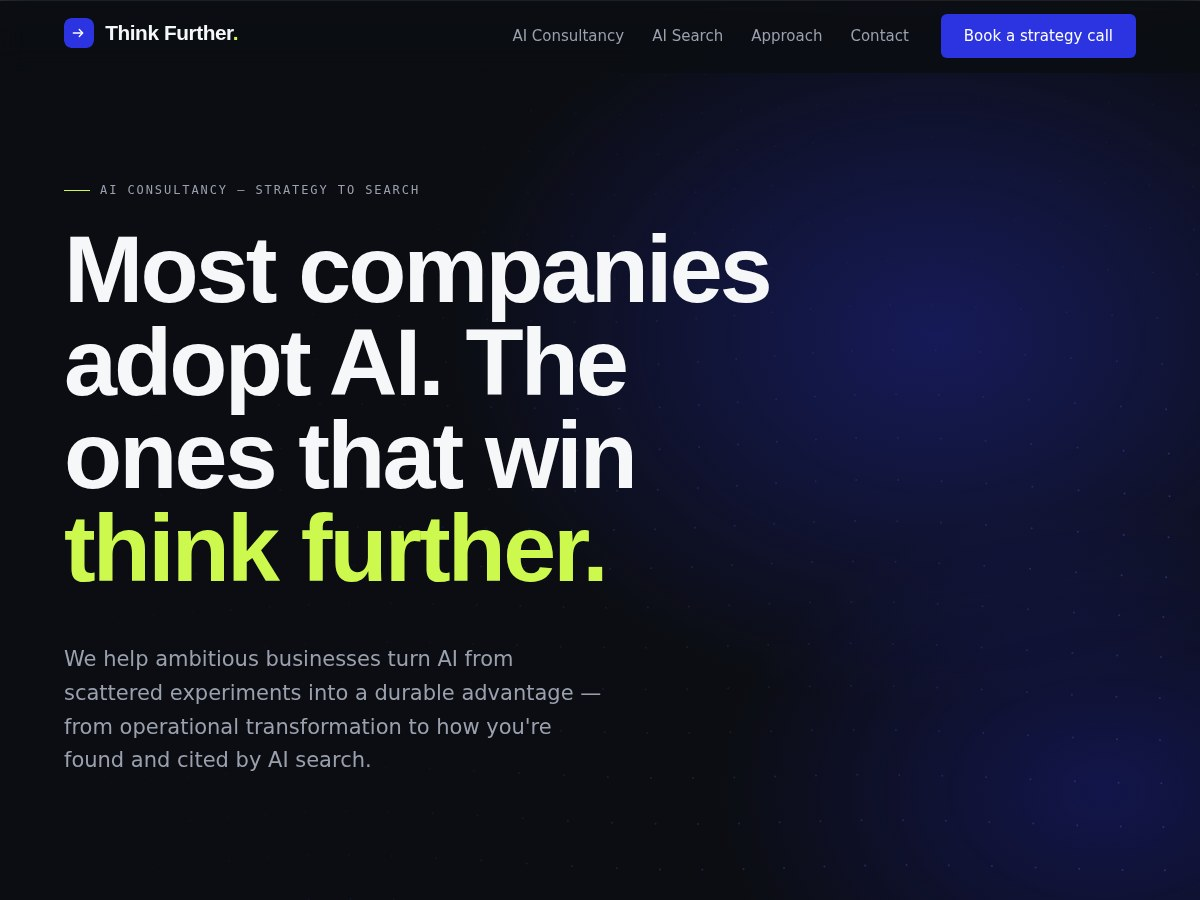
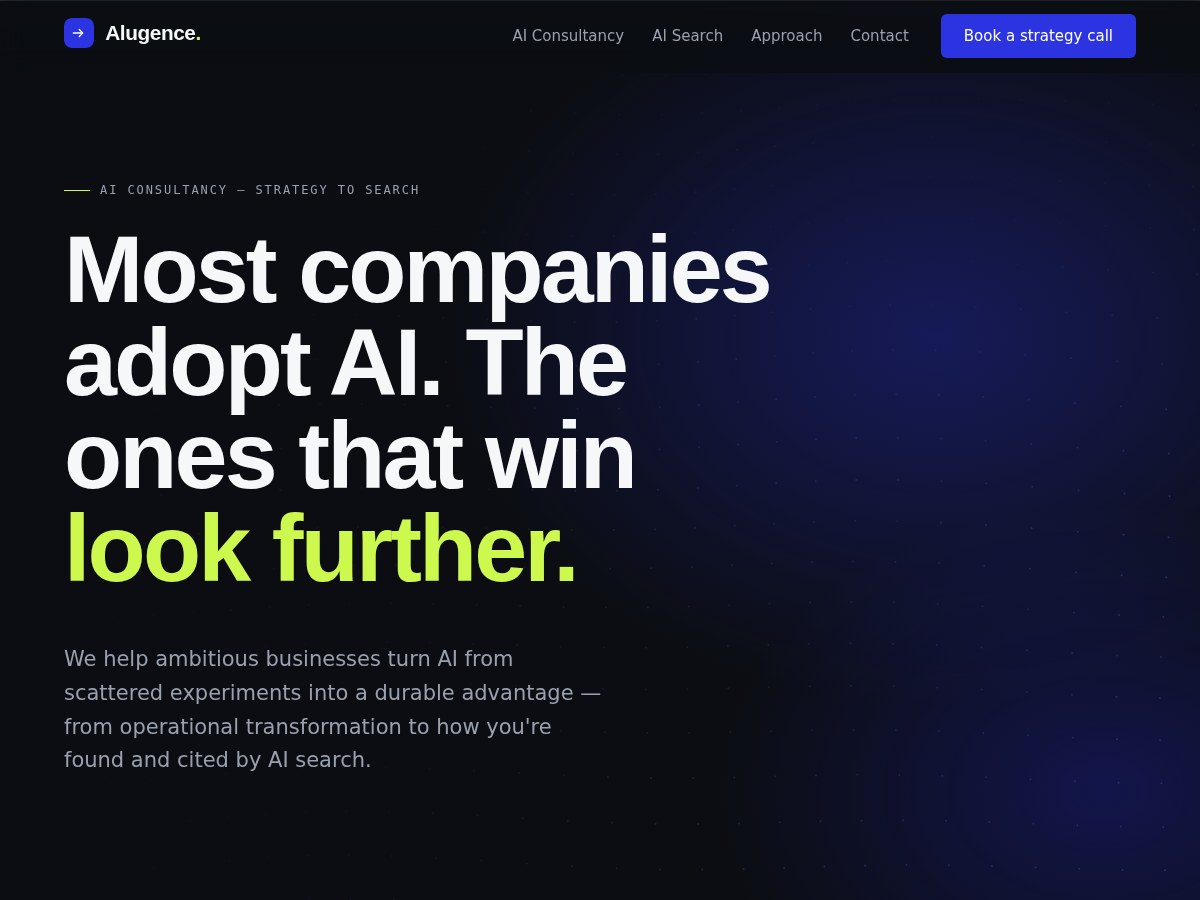
Rebrand: Think Further becomes Alugence
The Alugence brand pack keeps the v1.0 visual system unchanged (same
palette, typography, mark, motifs); this updates naming and voice:
- Wordmark and lockup now read Alugence.; official SVGs replaced in
  assets/img; theme header, Customizer panel, admin setup screen and
  all user-facing strings renamed
- Promise language updated per the new guide: 'think further' becomes
  'look further' in hero default, CTA band, footer and insights heading
- Domain references now alugence.ai (footer, defaults, contact email);
  contact-form subject line derives from the site host dynamically
- Internal identifiers (tf_ prefixes, text domain, repo name) kept
  stable so existing installs and WP Pusher config are unaffected

Claude-Session: https://claude.ai/code/session_01AxsKRJJyELHxB6M9gPaBGd

Changed region(s): [[0.0617, 0.56, 0.5242, 0.6533], [0.0925, 0.0311, 0.185, 0.0622]]

diff --git a/style.css b/style.css
@@ -1,10 +1,10 @@
 /*
-Theme Name:  Think Further
-Theme URI:   https://thinkfurther.ai
-Author:      Think Further
-Author URI:  https://thinkfurther.ai
-Description: Custom marketing theme for Think Further — an AI consultancy spanning business AI transformation and AI search visibility. Hand-built design system, no page-builder dependency.
-Version:     2.0.0
+Theme Name:  Alugence
+Theme URI:   https://alugence.ai
+Author:      Alugence
+Author URI:  https://alugence.ai
+Description: Custom marketing theme for Alugence — an AI consultancy spanning business AI transformation and AI search visibility. Hand-built design system, no page-builder dependency.
+Version:     2.1.0
 Requires at least: 6.0
 Tested up to: 6.7
 Requires PHP: 7.4

diff --git a/assets/css/main.css b/assets/css/main.css
@@ -1,5 +1,5 @@
 /* =============================================================
-   THINK FURTHER — design system
+   ALUGENCE — design system
    Brand v1.0: ink & paper neutrals, Signal Indigo, Volt accent,
    Beam for the AI-search arm.
    Space Grotesk × IBM Plex Sans × IBM Plex Mono.

diff --git a/assets/js/main.js b/assets/js/main.js
@@ -1,5 +1,5 @@
 /**
- * Think Further — interactions.
+ * Alugence — interactions.
  * No dependencies. Everything degrades gracefully and
  * respects prefers-reduced-motion.
  */

diff --git a/inc/customizer.php b/inc/customizer.php
@@ -19,7 +19,7 @@ function tf_customize_register( $wp_customize ) {
 	$wp_customize->add_panel(
 		'tf_theme_options',
 		array(
-			'title'    => __( 'Think Further Options', 'thinkfurther' ),
+			'title'    => __( 'Alugence Options', 'thinkfurther' ),
 			'priority' => 10,
 		)
 	);
@@ -35,7 +35,7 @@ function tf_customize_register( $wp_customize ) {
 	);
 
 	$contact_fields = array(
-		'tf_contact_email'  => array( __( 'Contact email', 'thinkfurther' ), 'hello@thinkfurther.ai', 'sanitize_email' ),
+		'tf_contact_email'  => array( __( 'Contact email', 'thinkfurther' ), 'hello@alugence.ai', 'sanitize_email' ),
 		'tf_booking_url'    => array( __( 'Booking / calendar link (optional)', 'thinkfurther' ), '', 'esc_url_raw' ),
 		'tf_linkedin_url'   => array( __( 'LinkedIn URL', 'thinkfurther' ), '', 'esc_url_raw' ),
 		'tf_location_label' => array( __( 'Location label', 'thinkfurther' ), 'United Kingdom · Working worldwide', 'sanitize_text_field' ),
@@ -71,7 +71,7 @@ function tf_customize_register( $wp_customize ) {
 
 	$hero_fields = array(
 		'tf_hero_eyebrow'  => array( __( 'Eyebrow label', 'thinkfurther' ), 'AI consultancy — strategy to search' ),
-		'tf_hero_headline' => array( __( 'Headline (use *asterisks* for italic serif emphasis)', 'thinkfurther' ), 'Most companies adopt AI. The ones that win *think further.*' ),
+		'tf_hero_headline' => array( __( 'Headline (use *asterisks* for colour emphasis)', 'thinkfurther' ), 'Most companies adopt AI. The ones that win *look further.*' ),
 		'tf_hero_subline'  => array( __( 'Supporting line', 'thinkfurther' ), 'We help ambitious businesses turn AI from scattered experiments into a durable advantage — from operational transformation to how you\'re found and cited by AI search.' ),
 		'tf_hero_cta'      => array( __( 'Primary CTA label', 'thinkfurther' ), 'Book a strategy call' ),
 	);
@@ -130,12 +130,12 @@ add_action( 'customize_register', 'tf_customize_register' );
  */
 function tf_option( $key ) {
 	$defaults = array(
-		'tf_contact_email'  => 'hello@thinkfurther.ai',
+		'tf_contact_email'  => 'hello@alugence.ai',
 		'tf_booking_url'    => '',
 		'tf_linkedin_url'   => '',
 		'tf_location_label' => 'United Kingdom · Working worldwide',
 		'tf_hero_eyebrow'   => 'AI consultancy — strategy to search',
-		'tf_hero_headline'  => 'Most companies adopt AI. The ones that win *think further.*',
+		'tf_hero_headline'  => 'Most companies adopt AI. The ones that win *look further.*',
 		'tf_hero_subline'   => 'We help ambitious businesses turn AI from scattered experiments into a durable advantage — from operational transformation to how you\'re found and cited by AI search.',
 		'tf_hero_cta'       => 'Book a strategy call',
 		'tf_footer_tagline' => 'An AI consultancy for businesses that intend to lead — not follow.',

diff --git a/inc/seo.php b/inc/seo.php
@@ -38,9 +38,9 @@ function tf_get_meta_description() {
 		$map = array(
 			'ai-consultancy' => __( 'AI consultancy and transformation for ambitious businesses: opportunity audits, strategy, custom AI systems and agentic workflows — measured against baselines you agree before we start.', 'thinkfurther' ),
 			'ai-search'      => __( 'AI search consultancy: measure and improve how ChatGPT, Claude, Perplexity, Gemini and AI Overviews describe, recommend and cite your business.', 'thinkfurther' ),
-			'approach'       => __( 'How Think Further works: evidence before enthusiasm, small senior teams, working software over slideware, and capability transfer by design.', 'thinkfurther' ),
-			'contact'        => __( 'Talk to Think Further about AI transformation or AI search visibility. We reply within one working day.', 'thinkfurther' ),
-			'about'          => __( 'Think Further is an AI consultancy with two practices: business AI transformation, and AI search visibility — one firm for being capable with AI and found by it.', 'thinkfurther' ),
+			'approach'       => __( 'How Alugence works: evidence before enthusiasm, small senior teams, working software over slideware, and capability transfer by design.', 'thinkfurther' ),
+			'contact'        => __( 'Talk to Alugence about AI transformation or AI search visibility. We reply within one working day.', 'thinkfurther' ),
+			'about'          => __( 'Alugence is an AI consultancy with two practices: business AI transformation, and AI search visibility — one firm for being capable with AI and found by it.', 'thinkfurther' ),
 		);
 		$slug = get_post_field( 'post_name', get_queried_object_id() );
 		if ( isset( $map[ $slug ] ) ) {
@@ -186,7 +186,7 @@ function tf_llms_output() {
 	$lines[] = '';
 	$lines[] = '> ' . wp_strip_all_tags( tf_option( 'tf_hero_subline' ) );
 	$lines[] = '';
-	$lines[] = wp_strip_all_tags( __( 'Think Further is an AI consultancy with two practices: business AI consultancy and transformation (the core practice), and AI search consultancy (a specialised service line for visibility in ChatGPT, Claude, Perplexity, Gemini and AI Overviews). Contact:', 'thinkfurther' ) ) . ' ' . sanitize_email( tf_option( 'tf_contact_email' ) );
+	$lines[] = wp_strip_all_tags( __( 'Alugence is an AI consultancy with two practices: business AI consultancy and transformation (the core practice), and AI search consultancy (a specialised service line for visibility in ChatGPT, Claude, Perplexity, Gemini and AI Overviews). Contact:', 'thinkfurther' ) ) . ' ' . sanitize_email( tf_option( 'tf_contact_email' ) );
 	$lines[] = '';
 	$lines[] = '## Services';
 	$lines[] = '';

diff --git a/page-templates/about.php b/page-templates/about.php
@@ -12,7 +12,7 @@ get_template_part(
 	'template-parts/page-hero',
 	null,
 	array(
-		'eyebrow' => __( 'About Think Further', 'thinkfurther' ),
+		'eyebrow' => __( 'About Alugence', 'thinkfurther' ),
 		'title'   => __( 'A consultancy built for the *AI decade.*', 'thinkfurther' ),
 		'subline' => __( 'Founded on a simple observation: the firms winning with AI aren\'t the ones with the biggest budgets — they\'re the ones thinking furthest ahead about how work, and being found, are changing.', 'thinkfurther' ),
 	)
@@ -28,7 +28,7 @@ get_template_part(
 			</div>
 			<div class="split__body">
 				<p class="reveal"><?php esc_html_e( 'On one side: big-firm AI strategy that costs six figures before anything ships. On the other: automation freelancers gluing tools together with no view of the business. And almost nobody treating the other half of the problem — how AI assistants describe and recommend you — as the distribution channel it has become.', 'thinkfurther' ); ?></p>
-				<p class="reveal"><?php esc_html_e( 'Think Further sits deliberately between and across: senior enough to work with leadership on what matters, hands-on enough to ship working systems in weeks, and specialised enough to treat AI search visibility as a first-class discipline rather than a footnote.', 'thinkfurther' ); ?></p>
+				<p class="reveal"><?php esc_html_e( 'Alugence sits deliberately between and across: senior enough to work with leadership on what matters, hands-on enough to ship working systems in weeks, and specialised enough to treat AI search visibility as a first-class discipline rather than a footnote.', 'thinkfurther' ); ?></p>
 			</div>
 		</div>
 	</div>

diff --git a/front-page.php b/front-page.php
@@ -46,7 +46,7 @@ get_header();
 		</h2>
 		<div class="manifesto__cols">
 			<p class="reveal"><?php esc_html_e( 'Inside the business, AI is collapsing the cost of work that used to take teams: analysis, drafting, triage, decisions. Outside it, buyers have stopped scrolling ten blue links — they ask an AI assistant and act on the answer.', 'thinkfurther' ); ?></p>
-			<p class="reveal"><?php esc_html_e( 'Think Further exists at the intersection. We make your business genuinely capable with AI, and we make sure that when AI answers questions in your market, you\'re the company it names.', 'thinkfurther' ); ?></p>
+			<p class="reveal"><?php esc_html_e( 'Alugence exists at the intersection. We make your business genuinely capable with AI, and we make sure that when AI answers questions in your market, you\'re the company it names.', 'thinkfurther' ); ?></p>
 		</div>
 	</div>
 </section>
@@ -250,7 +250,7 @@ if ( $tf_latest->have_posts() ) :
 			<div class="section-head section-head--split">
 				<div>
 					<?php tf_eyebrow( __( 'Insights', 'thinkfurther' ), 'reveal' ); ?>
-					<h2 class="section-head__title reveal"><?php esc_html_e( 'Thinking, further.', 'thinkfurther' ); ?></h2>
+					<h2 class="section-head__title reveal"><?php esc_html_e( 'Looking further.', 'thinkfurther' ); ?></h2>
 				</div>
 				<div class="reveal">
 					<?php tf_arrow_link( get_permalink( get_option( 'page_for_posts' ) ) ? get_permalink( get_option( 'page_for_posts' ) ) : home_url( '/blog/' ), __( 'All insights', 'thinkfurther' ) ); ?>

diff --git a/inc/admin-setup.php b/inc/admin-setup.php
@@ -76,7 +76,7 @@ function tf_setup_render_page() {
 	$all_done = ! in_array( false, $status, true );
 	?>
 	<div class="wrap">
-		<h1><?php esc_html_e( 'Think Further — Theme Setup', 'thinkfurther' ); ?></h1>
+		<h1><?php esc_html_e( 'Alugence — Theme Setup', 'thinkfurther' ); ?></h1>
 
 		<?php if ( $did_run ) : ?>
 			<div class="notice notice-success is-dismissible"><p><?php esc_html_e( 'Setup complete. Pages, menu and homepage settings are configured.', 'thinkfurther' ); ?></p></div>
@@ -118,7 +118,7 @@ function tf_setup_render_page() {
 			printf(
 				/* translators: %s: customizer link. */
 				esc_html__( 'Afterwards, set your contact details and hero copy in %s.', 'thinkfurther' ),
-				'<a href="' . esc_url( admin_url( 'customize.php' ) ) . '">' . esc_html__( 'the Customizer under “Think Further Options”', 'thinkfurther' ) . '</a>'
+				'<a href="' . esc_url( admin_url( 'customize.php' ) ) . '">' . esc_html__( 'the Customizer under “Alugence Options”', 'thinkfurther' ) . '</a>'
 			);
 			?>
 		</p>
@@ -233,7 +233,7 @@ function tf_setup_notice() {
 	}
 	printf(
 		'<div class="notice notice-info"><p><strong>%s</strong> %s <a href="%s">%s</a></p></div>',
-		esc_html__( 'Think Further theme:', 'thinkfurther' ),
+		esc_html__( 'Alugence theme:', 'thinkfurther' ),
 		esc_html__( 'finish setting up the site structure (pages, menu, homepage) in one click.', 'thinkfurther' ),
 		esc_url( admin_url( 'themes.php?page=tf-setup' ) ),
 		esc_html__( 'Open Theme Setup', 'thinkfurther' )

diff --git a/inc/template-tags.php b/inc/template-tags.php
@@ -10,7 +10,7 @@ if ( ! defined( 'ABSPATH' ) ) {
 }
 
 /**
- * Render a headline where *asterisk-wrapped* spans become italic serif emphasis.
+ * Render a headline where *asterisk-wrapped* spans become colour emphasis.
  *
  * @param string $text Raw headline text.
  * @return string Safe HTML.
@@ -21,7 +21,7 @@ function tf_headline( $text ) {
 }
 
 /**
- * Output the Think Further wordmark (custom logo if set, else built-in mark).
+ * Output the Alugence wordmark (custom logo if set, else built-in mark).
  */
 function tf_logo() {
 	if ( has_custom_logo() ) {
@@ -29,7 +29,7 @@ function tf_logo() {
 		return;
 	}
 	?>
-	<a class="site-logo" href="<?php echo esc_url( home_url( '/' ) ); ?>" rel="home" aria-label="<?php esc_attr_e( 'Think Further — home', 'thinkfurther' ); ?>">
+	<a class="site-logo" href="<?php echo esc_url( home_url( '/' ) ); ?>" rel="home" aria-label="<?php esc_attr_e( 'Alugence — home', 'thinkfurther' ); ?>">
 		<span class="site-logo__mark" aria-hidden="true">
 			<svg viewBox="0 0 64 64" width="64" height="64" xmlns="http://www.w3.org/2000/svg">
 				<rect width="64" height="64" rx="16" fill="#2B34E0"/>
@@ -39,7 +39,7 @@ function tf_logo() {
 				</g>
 			</svg>
 		</span>
-		<span class="site-logo__text">Think Further<span class="site-logo__dot">.</span></span>
+		<span class="site-logo__text">Alugence<span class="site-logo__dot">.</span></span>
 	</a>
 	<?php
 }

diff --git a/page-templates/ai-search.php b/page-templates/ai-search.php
@@ -74,7 +74,7 @@ get_template_part(
 				<h2 class="section-head__title reveal"><?php echo wp_kses( tf_headline( __( 'Visibility works best when the *business behind it does.*', 'thinkfurther' ) ), array( 'em' => array() ) ); ?></h2>
 			</div>
 			<div class="split__body">
-				<p class="reveal"><?php esc_html_e( 'AI search is a specialised practice within Think Further, not a separate agency. That matters: the same understanding of how models retrieve, reason and cite informs both how we build AI into your operations and how we position you inside everyone else\'s. Clients often start with a visibility audit and expand into transformation — or the reverse.', 'thinkfurther' ); ?></p>
+				<p class="reveal"><?php esc_html_e( 'AI search is a specialised practice within Alugence, not a separate agency. That matters: the same understanding of how models retrieve, reason and cite informs both how we build AI into your operations and how we position you inside everyone else\'s. Clients often start with a visibility audit and expand into transformation — or the reverse.', 'thinkfurther' ); ?></p>
 				<div class="reveal">
 					<?php tf_arrow_link( tf_page_url_by_template( 'page-templates/ai-transformation.php', '/ai-consultancy/' ), __( 'See the transformation practice', 'thinkfurther' ) ); ?>
 				</div>

diff --git a/footer.php b/footer.php
@@ -16,7 +16,7 @@
 			</div>
 
 			<div class="site-footer__cta">
-				<p class="site-footer__cta-heading"><?php esc_html_e( 'Ready to think further?', 'thinkfurther' ); ?></p>
+				<p class="site-footer__cta-heading"><?php esc_html_e( 'Ready to look further?', 'thinkfurther' ); ?></p>
 				<a class="btn btn--light btn--lg" href="<?php echo esc_url( tf_cta_url() ); ?>">
 					<?php echo esc_html( tf_option( 'tf_hero_cta' ) ); ?>
 					<span aria-hidden="true">&rarr;</span>
@@ -58,8 +58,8 @@
 		</div>
 
 		<div class="site-footer__bottom">
-			<p>&copy; <?php echo esc_html( gmdate( 'Y' ) ); ?> Think Further. <?php esc_html_e( 'All rights reserved.', 'thinkfurther' ); ?></p>
-			<p class="site-footer__domain">thinkfurther.ai</p>
+			<p>&copy; <?php echo esc_html( gmdate( 'Y' ) ); ?> Alugence. <?php esc_html_e( 'All rights reserved.', 'thinkfurther' ); ?></p>
+			<p class="site-footer__domain">alugence.ai</p>
 		</div>
 	</div>
 </footer>

diff --git a/template-parts/cta.php b/template-parts/cta.php
@@ -11,7 +11,7 @@
 			<div class="cta-band__glow" aria-hidden="true"></div>
 			<?php tf_eyebrow( __( 'Start the conversation', 'thinkfurther' ) ); ?>
 			<h2 class="cta-band__title">
-				<?php echo wp_kses( tf_headline( __( 'Find out what *thinking further* looks like for your business.', 'thinkfurther' ) ), array( 'em' => array() ) ); ?>
+				<?php echo wp_kses( tf_headline( __( 'Find out what *looking further* could do for your business.', 'thinkfurther' ) ), array( 'em' => array() ) ); ?>
 			</h2>
 			<p class="cta-band__desc"><?php esc_html_e( 'A 30-minute call. We\'ll tell you honestly where AI can move your numbers — and where it can\'t.', 'thinkfurther' ); ?></p>
 			<div class="cta-band__actions">
